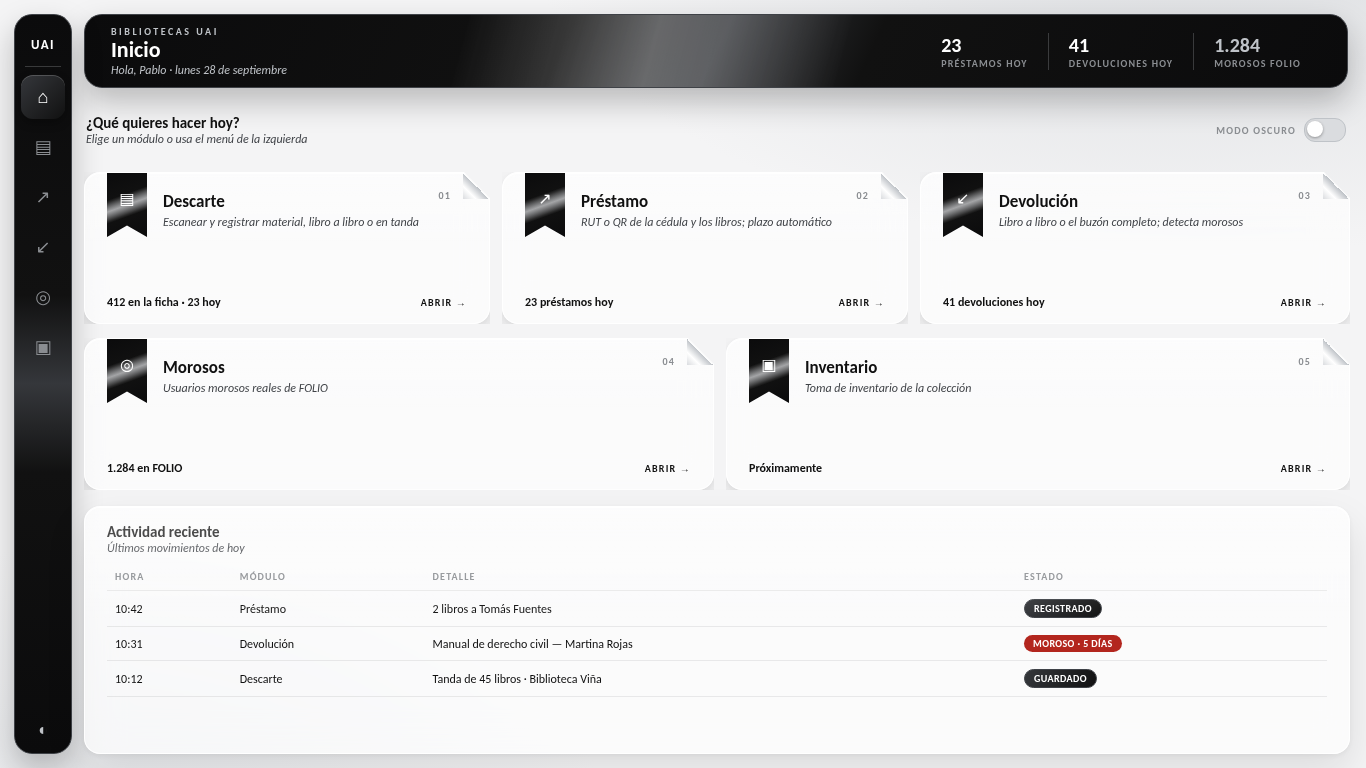
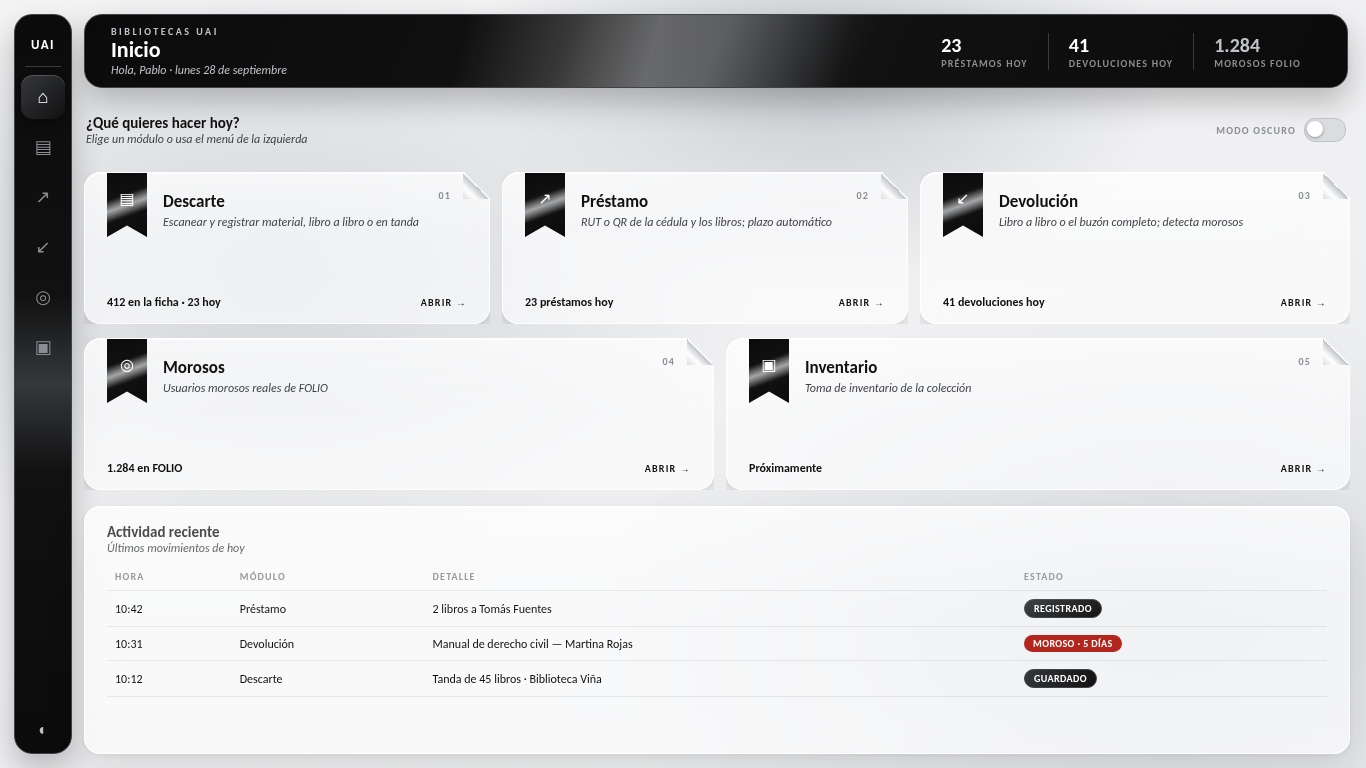
Diseño: 3 propuestas de vidrio (claro/oscuro) y modo oscuro grafito con matices
Claude-Session: https://claude.ai/code/session_018uFU4P9QkaWXr2H5UAix7x

Changed region(s): [[0.4919, 0.0938, 0.6764, 0.2188], [0.123, 0.4062, 0.3075, 0.4375]]

diff --git a/diseno/vidrio.py b/diseno/vidrio.py
@@ -1,0 +1,36 @@
+F="font-family:Carlito,Calibri,sans-serif"
+def fondo(oscuro):
+    if oscuro:
+        return ("radial-gradient(420px 260px at 18% 30%,#4A4D52 0%,transparent 70%),radial-gradient(520px 300px at 78% 70%,#3F4247 0%,transparent 70%),"
+                "radial-gradient(300px 200px at 55% 20%,#5A5D63 0%,transparent 70%),linear-gradient(160deg,#1E1F22,#16171A)")
+    return ("radial-gradient(420px 260px at 18% 30%,#C9CCD1 0%,transparent 70%),radial-gradient(520px 300px at 78% 70%,#D2D5D9 0%,transparent 70%),"
+            "radial-gradient(300px 200px at 55% 20%,#BFC3C8 0%,transparent 70%),linear-gradient(160deg,#F4F4F5,#E9EAEC)")
+VAR = {
+ 'A · Esmerilado': dict(cl="background:rgba(255,255,255,.55);backdrop-filter:blur(22px) saturate(150%);border:1px solid rgba(255,255,255,.85);box-shadow:0 16px 36px rgba(17,17,17,.12),inset 0 1px 0 rgba(255,255,255,.95)",
+                         os="background:rgba(70,72,78,.45);backdrop-filter:blur(22px) saturate(150%);border:1px solid rgba(191,195,200,.30);box-shadow:0 16px 36px rgba(0,0,0,.35),inset 0 1px 0 rgba(255,255,255,.14)",
+                         d="Lechoso y suave. El más elegante y legible."),
+ 'B · Cristal líquido': dict(cl="background:linear-gradient(135deg,rgba(255,255,255,.38),rgba(255,255,255,.12));backdrop-filter:blur(8px) saturate(180%);border:1px solid rgba(255,255,255,.95);box-shadow:0 16px 36px rgba(17,17,17,.10),inset 1px 1px 0 rgba(255,255,255,.95),inset -1px -1px 0 rgba(138,141,145,.35),inset 0 0 22px rgba(255,255,255,.35)",
+                         os="background:linear-gradient(135deg,rgba(255,255,255,.14),rgba(255,255,255,.03));backdrop-filter:blur(8px) saturate(180%);border:1px solid rgba(255,255,255,.35);box-shadow:0 16px 36px rgba(0,0,0,.35),inset 1px 1px 0 rgba(255,255,255,.35),inset -1px -1px 0 rgba(0,0,0,.4),inset 0 0 22px rgba(255,255,255,.06)",
+                         d="Más transparente, bordes que brillan. Lo más parecido a Liquid Glass."),
+ 'C · Humo': dict(cl="background:rgba(17,17,17,.08);backdrop-filter:blur(16px);border:1px solid rgba(17,17,17,.10);box-shadow:0 16px 36px rgba(17,17,17,.10),inset 0 1px 0 rgba(255,255,255,.7)",
+                  os="background:rgba(0,0,0,.35);backdrop-filter:blur(16px);border:1px solid rgba(191,195,200,.18);box-shadow:0 16px 36px rgba(0,0,0,.45),inset 0 1px 0 rgba(255,255,255,.08)",
+                  d="Vidrio ahumado, sobrio. Contraste alto."),
+}
+def muestra(nombre, estilo, oscuro, desc):
+    tx = "#F2F2F3" if oscuro else "#111111"; sub = "#C4C7CC" if oscuro else "#3F4247"; mut = "#9A9DA2" if oscuro else "#8A8D91"
+    brillo = "<div style='position:absolute;inset:0;border-radius:18px;background:linear-gradient(115deg,transparent 30%,rgba(255,255,255,.35) 46%,transparent 60%);opacity:.5'></div>"
+    return (f"<div style='position:relative;width:390px;height:190px;border-radius:18px;{estilo};overflow:hidden'>{brillo}"
+            f"<div style='position:relative;padding:18px 22px'><div style='{F};font-size:10px;letter-spacing:1.5px;font-weight:700;color:{mut}'>{nombre.upper()}</div>"
+            f"<div style='{F};font-size:17px;font-weight:700;color:{tx};margin-top:6px'>Préstamo</div><div style='{F};font-size:12px;font-style:italic;color:{sub}'>RUT o QR de la cédula y los libros</div>"
+            f"<div style='{F};font-size:12px;color:{sub};margin-top:16px'>{desc}</div>"
+            f"<div style='position:absolute;left:22px;right:22px;top:150px;display:flex;justify-content:space-between'><span style='{F};font-size:12px;font-weight:700;color:{tx}'>23 préstamos hoy</span>"
+            f"<span style='{F};font-size:10px;letter-spacing:1.5px;font-weight:700;color:{tx}'>ABRIR →</span></div></div></div>")
+def panel(oscuro):
+    tit = "Modo oscuro (grafito, con matices)" if oscuro else "Modo claro"
+    cards = ''.join(f"<div>{muestra(k, v['os' if oscuro else 'cl'], oscuro, v['d'])}</div>" for k,v in VAR.items())
+    return (f"<div class='scr' data-l='vidrio_{'oscuro' if oscuro else 'claro'}' style='width:1300px;padding:26px 30px;box-sizing:border-box;background:{fondo(oscuro)};position:relative;overflow:hidden'>"
+            f"<div style='position:absolute;left:300px;top:40px;{F};font-size:180px;font-weight:700;color:{'rgba(255,255,255,.06)' if oscuro else 'rgba(17,17,17,.06)'};letter-spacing:20px'>UAI</div>"
+            f"<div style='position:relative;{F};font-size:17px;font-weight:700;color:{'#F2F2F3' if oscuro else '#111'}'>{tit}</div>"
+            f"<div style='position:relative;{F};font-size:12px;font-style:italic;color:{'#C4C7CC' if oscuro else '#3F4247'};margin-bottom:16px'>Detrás de cada tarjeta hay formas plateadas y la palabra UAI para ver cuánto deja pasar el vidrio</div>"
+            f"<div style='position:relative;display:flex;gap:24px'>{cards}</div></div>")
+open('vidrio.html','w').write(f"<html><head><meta charset='utf-8'><link href='fonts/carlito.css' rel='stylesheet'></head><body style='margin:0'>{panel(False)}{panel(True)}</body></html>")

diff --git a/diseno/boceto4.py b/diseno/boceto4.py
@@ -1,10 +1,10 @@
 # Boceto v4: fluido, elegante, letra tipo Calibri (Carlito), textos 10-12 pt, vidrio + modo oscuro
 def tema(oscuro):
     if oscuro:
-        return dict(bg="radial-gradient(1200px 600px at 85% -10%,#3F4247 0%,transparent 60%),radial-gradient(900px 500px at 10% 110%,#2a2c30 0%,transparent 60%),#0B0B0C",
-                    glass="rgba(40,42,46,0.55)", gb="rgba(191,195,200,0.22)", hi="rgba(255,255,255,0.10)",
-                    tx="#F2F2F3", sub="#BFC3C8", mut="#8A8D91", line="rgba(191,195,200,0.18)", inp="rgba(255,255,255,0.06)", pos="#E6E7E9")
-    return dict(bg="radial-gradient(1100px 560px at 88% -12%,#DADCDF 0%,transparent 62%),radial-gradient(900px 520px at 6% 112%,#E3E5E8 0%,transparent 60%),#F4F4F5",
+        return dict(bg="radial-gradient(700px 420px at 20% 35%,#4A4D52 0%,transparent 70%),radial-gradient(800px 460px at 85% 80%,#3F4247 0%,transparent 70%),radial-gradient(500px 300px at 60% 10%,#55585E 0%,transparent 70%),linear-gradient(160deg,#232428,#1A1B1E)",
+                    glass="rgba(70,72,78,0.45)", gb="rgba(191,195,200,0.30)", hi="rgba(255,255,255,0.14)",
+                    tx="#F2F2F3", sub="#C4C7CC", mut="#9A9DA2", line="rgba(191,195,200,0.16)", inp="rgba(255,255,255,0.07)", pos="#E6E7E9")
+    return dict(bg="radial-gradient(700px 420px at 20% 35%,#D2D5D9 0%,transparent 70%),radial-gradient(800px 460px at 85% 80%,#D8DBDF 0%,transparent 70%),radial-gradient(500px 300px at 60% 10%,#C9CCD1 0%,transparent 70%),linear-gradient(160deg,#F4F4F5,#EBECEE)",
                 glass="rgba(255,255,255,0.62)", gb="rgba(255,255,255,0.9)", hi="rgba(255,255,255,0.9)",
                 tx="#111111", sub="#3F4247", mut="#8A8D91", line="rgba(17,17,17,0.08)", inp="rgba(255,255,255,0.85)", pos="#111111")
 F = "font-family:Carlito,Calibri,sans-serif"
@@ -85,8 +85,8 @@ def switch(on):
     return (f"<div style='width:40px;height:22px;border-radius:11px;position:relative;{DARK + ';' if on else 'background:#DADCDF;'}border:1px solid #BFC3C8'>"
             f"<div style='position:absolute;top:2px;left:{20 if on else 2}px;width:16px;height:16px;border-radius:50%;background:#fff;box-shadow:0 1px 3px rgba(0,0,0,.35)'></div></div>")
 
-def prestamo():
-    t=tema(False)
+def prestamo(oscuro=False):
+    t=tema(oscuro)
     b=header(t,'Préstamo','Préstamo ficticio · se registra en Excel')+rail(t,'Préstamo')
     b+=(f"<div class='g' style='left:84px;top:104px;width:470px;height:560px'><div style='padding:18px 22px'>"
         f"<div class='h1'>1 · Usuario</div><div class='h2'>Escanee el QR de la cédula o digite el RUT</div>"
@@ -107,7 +107,7 @@ def prestamo():
         f"<table style='margin-top:10px'><tr><th>CÓDIGO</th><th>TÍTULO</th><th>TIPO</th><th>PLAZO</th><th>VENCE</th><th></th></tr>{tr}</table></div></div>")
     b+=(f"<div style='position:absolute;left:570px;top:680px;width:590px;height:48px;border-radius:14px;{DARK};border:1px solid #3F4247;box-shadow:0 10px 22px rgba(17,17,17,.25);overflow:hidden;display:flex;align-items:center;justify-content:center;{F};font-size:13px;font-weight:700;letter-spacing:2px;color:#fff'>{SHINE}<span style='position:relative'>REGISTRAR PRÉSTAMO (3) →</span></div>"
         f"<div class='g' style='left:1174px;top:680px;width:174px;height:48px;display:flex;align-items:center;justify-content:center'><span class='p' style='color:{t['tx']}'>Cancelar</span></div>")
-    return screen(b,t,'v4_prestamo',False)
+    return screen(b,t,'v4_prestamo'+('_oscuro' if oscuro else ''),oscuro)
 
 def carne(x,y,w,h,nombre,ini,rut,tipo,unidad,prog,act,venc,moroso):
     borde = "border:1.5px solid #B3261E;box-shadow:0 0 0 4px rgba(179,38,30,.16),0 0 22px rgba(179,38,30,.35),0 18px 40px rgba(17,17,17,.25)" if moroso else "border:1px solid #3F4247;box-shadow:0 18px 40px rgba(17,17,17,.25)"
@@ -153,5 +153,5 @@ def screen(body,t,label,oscuro):
             f"<style>.{label} .p{{{css(t).split('.p{')[1].split('}')[0]}}} .{label} .cap{{{css(t).split('.cap{')[1].split('}')[0]}}} .{label} .in{{{css(t).split('.in{')[1].split('}')[0]}}} .{label} td{{{css(t).split('td{')[1].split('}')[0]}}} .{label} th{{{css(t).split('th{')[1].split('}')[0]}}} .{label} table{{{css(t).split('table{')[1].split('}')[0]}}} .{label} .pos{{{css(t).split('.pos{')[1].split('}')[0]}}}</style>"
             f"{body}</div></div>")
 
-html = f"<html><head><meta charset='utf-8'><link href='fonts/carlito.css' rel='stylesheet'></head><body style='margin:0;background:#DADCDF'>{inicio(False)}{inicio(True)}{prestamo()}{morosos()}</body></html>"
+html = f"<html><head><meta charset='utf-8'><link href='fonts/carlito.css' rel='stylesheet'></head><body style='margin:0;background:#DADCDF'>{inicio(False)}{inicio(True)}{prestamo()}{prestamo(True)}{morosos()}</body></html>"
 open('boceto4.html','w').write(html)
